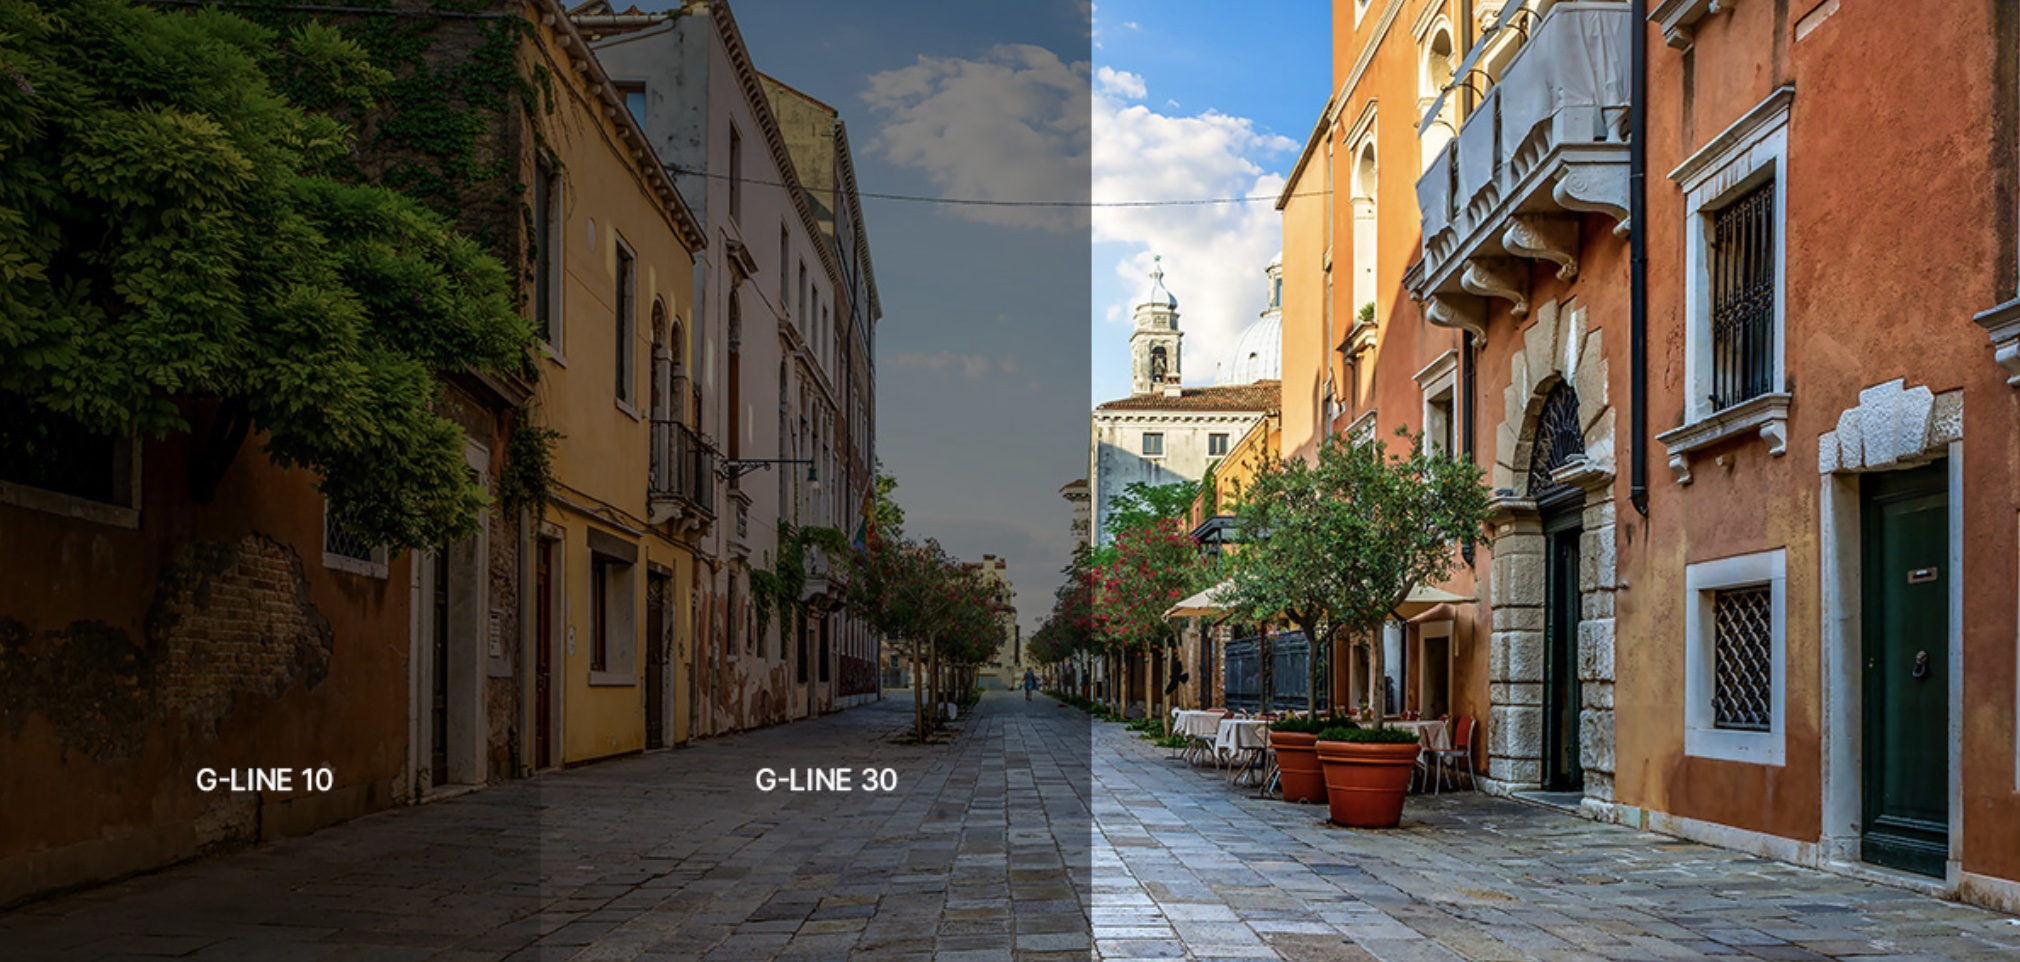
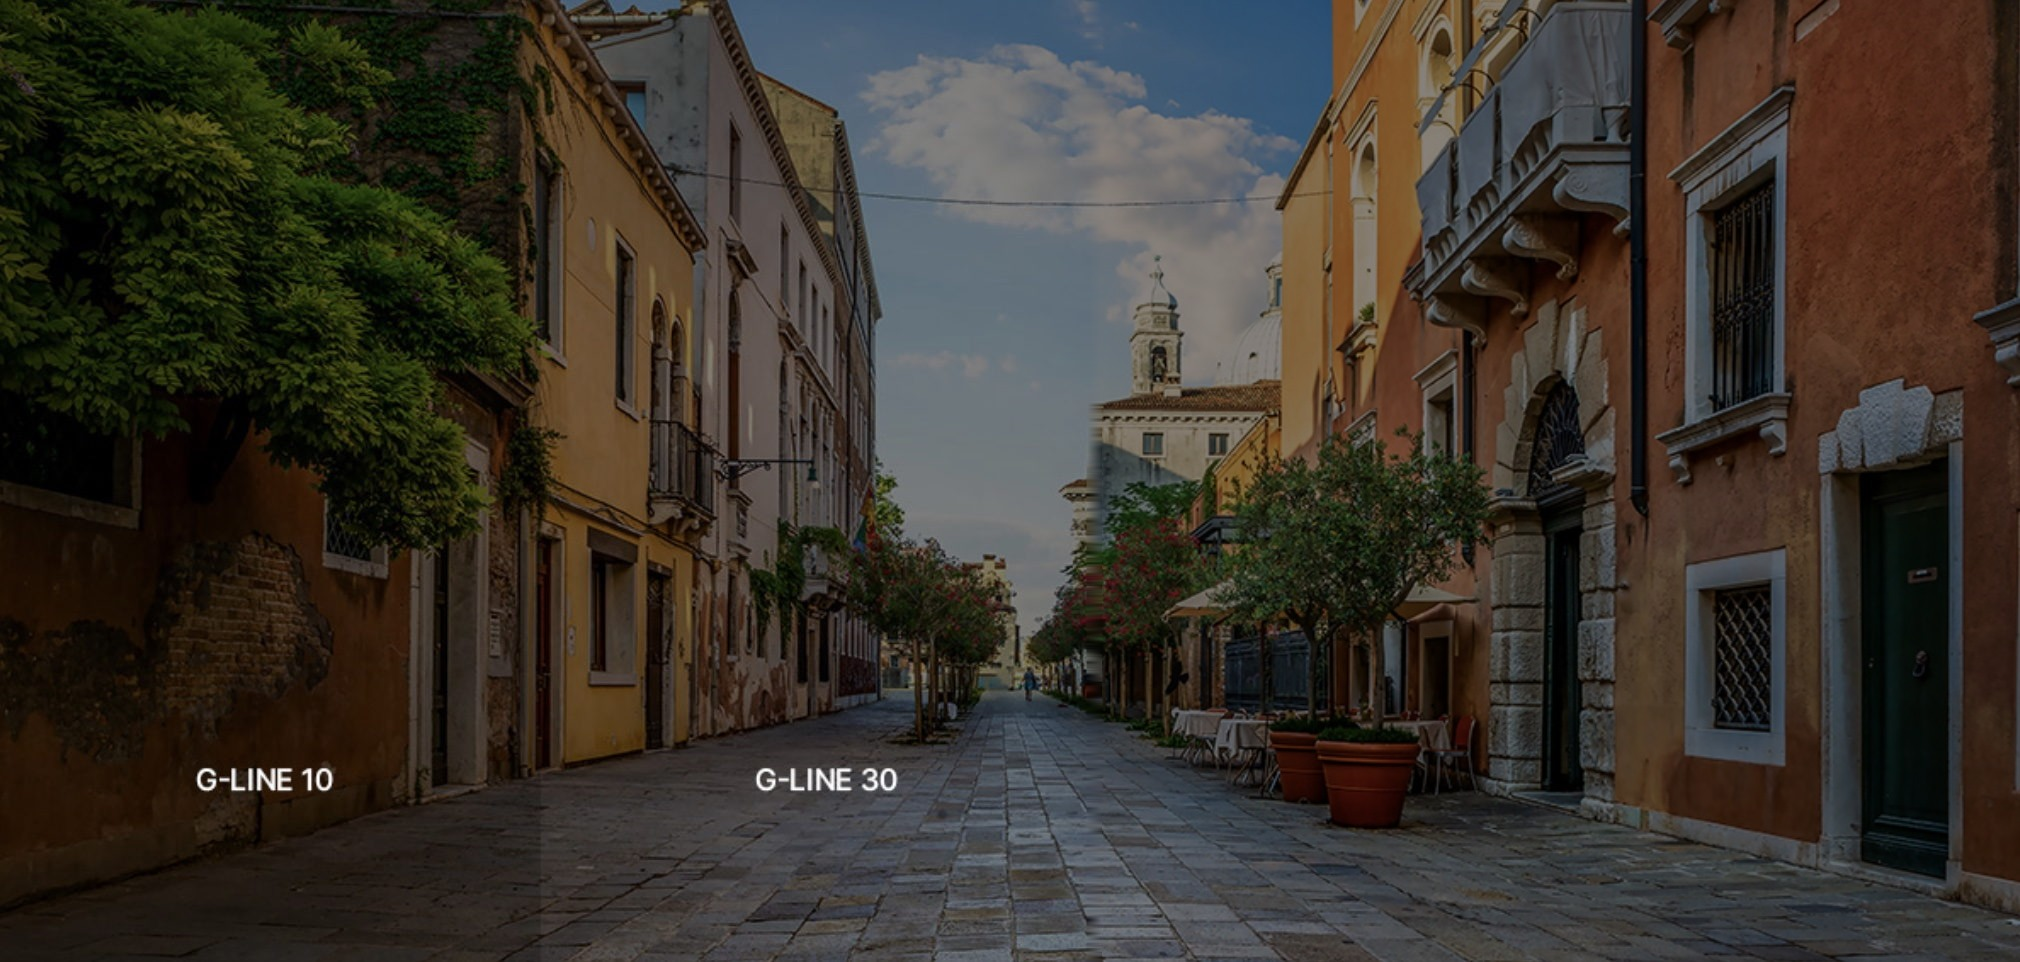
비교컷 4종 v2 — 마지막 틴트를 끝까지 연장 (Xenith·G-LINE·S-LINE·Galaxie, 사용자 요청). 틴트=하늘 행 투과율 중앙값(곱셈 모델 — 전 채널 선형 fit은 단색 하늘에서 발산·색왜곡 실측), 경계 ±6px 행별 보간 봉합(G-LINE 흰 디바이더 제거 포함), 바탕 동기, src ?v=2. S-LINE 실서버 검증

diff --git a/index.html b/index.html
@@ -3309,7 +3309,7 @@ body.pd-open { overflow: hidden; }
 
       <!-- Xenith IR -->
       <div class="product-panel has-scene" id="panel-xenith">
-        <div class="product-image"><img src="xenith-vlt-scene.jpg" alt="Xenith IR 농도별 발색 비교 — 비크 블랙 발색" width="2036" height="964" loading="lazy" decoding="async"></div>
+        <div class="product-image"><img src="xenith-vlt-scene.jpg?v=2" alt="Xenith IR 농도별 발색 비교 — 비크 블랙 발색" width="2036" height="964" loading="lazy" decoding="async"></div>
         <div>
           <span class="product-category">천장의 빛</span>
           <h3 class="product-name">Xenith IR</h3>
@@ -3403,7 +3403,7 @@ body.pd-open { overflow: hidden; }
 
       <!-- G-LINE -->
       <div class="product-panel has-scene" id="panel-gline">
-        <div class="product-image"><img src="gline-vlt-scene.jpg" alt="G-LINE 농도별 발색 비교 — 라미네이티드 블루 발색" width="2020" height="962" loading="lazy" decoding="async"></div>
+        <div class="product-image"><img src="gline-vlt-scene.jpg?v=2" alt="G-LINE 농도별 발색 비교 — 라미네이티드 블루 발색" width="2020" height="962" loading="lazy" decoding="async"></div>
         <div>
           <span class="product-category">Balance &amp; Hybrid</span>
           <h3 class="product-name">G-LINE</h3>
@@ -3434,7 +3434,7 @@ body.pd-open { overflow: hidden; }
 
       <!-- S-LINE -->
       <div class="product-panel has-scene" id="panel-sline">
-        <div class="product-image"><img src="sline-vlt-scene.jpg" alt="S-LINE 농도별 발색 비교" width="2032" height="964" loading="lazy" decoding="async"></div>
+        <div class="product-image"><img src="sline-vlt-scene.jpg?v=2" alt="S-LINE 농도별 발색 비교" width="2032" height="964" loading="lazy" decoding="async"></div>
         <div>
           <span class="product-category">Comfort &amp; Smart</span>
           <h3 class="product-name">S-LINE</h3>
@@ -3465,7 +3465,7 @@ body.pd-open { overflow: hidden; }
 
       <!-- Galaxie -->
       <div class="product-panel has-scene" id="panel-galaxie">
-        <div class="product-image"><img src="galaxie-vlt-scene.jpg" alt="Galaxie 농도별 발색 비교" width="2028" height="966" loading="lazy" decoding="async"></div>
+        <div class="product-image"><img src="galaxie-vlt-scene.jpg?v=2" alt="Galaxie 농도별 발색 비교" width="2028" height="966" loading="lazy" decoding="async"></div>
         <div>
           <span class="product-category">Intelligent &amp; Balance</span>
           <h3 class="product-name">Galaxie</h3>
@@ -4531,12 +4531,12 @@ if (prodSec) prodIO.observe(prodSec);
   const SCN = {
     'lx-vlt-scene.jpg':       { base: 'lx-vlt-scene-base.jpg?v=3', w: 2036, edges: [0, 303, 610, 918, 1226, 2036] },
     'vogue-vlt-scene-2.jpg':  { base: 'vogue-vlt-scene-2-base.jpg', w: 2040, edges: [0, 360, 729, 1099, 1468, 2040] },
-    'xenith-vlt-scene.jpg':   { base: 'xenith-vlt-scene-base.jpg', w: 2036, edges: [0, 608, 1221, 2036] },
+    'xenith-vlt-scene.jpg?v=2':   { base: 'xenith-vlt-scene-base.jpg?v=2', w: 2036, edges: [0, 608, 2036] },
     'quantum-vlt-scene-4.jpg':{ base: 'quantum-vlt-scene-4-base.jpg', w: 2030, edges: [0, 239, 504, 769, 1031, 1295, 1560, 2030] },
     'titanium-vlt-scene.jpg?v=2': { base: 'titanium-vlt-scene-base.jpg?v=2', w: 2038, edges: [0, 453, 913, 2038] }, /* 26 틴트를 끝까지 연장한 v2 컷 (2026-08-13) */
-    'gline-vlt-scene.jpg':    { base: 'gline-vlt-scene-base.jpg', w: 2020, edges: [0, 540, 1094, 2020] },
-    'sline-vlt-scene.jpg':    { base: 'sline-vlt-scene-base.jpg', w: 2032, edges: [0, 546, 1099, 2032] },
-    'galaxie-vlt-scene.jpg':  { base: 'galaxie-vlt-scene-base.jpg', w: 2028, edges: [0, 449, 911, 1373, 2028] },
+    'gline-vlt-scene.jpg?v=2':    { base: 'gline-vlt-scene-base.jpg?v=2', w: 2020, edges: [0, 540, 2020] },
+    'sline-vlt-scene.jpg?v=2':    { base: 'sline-vlt-scene-base.jpg?v=2', w: 2032, edges: [0, 546, 2032] },
+    'galaxie-vlt-scene.jpg?v=2':  { base: 'galaxie-vlt-scene-base.jpg?v=2', w: 2028, edges: [0, 449, 911, 2028] },
   };
   const wraps = [];
   document.querySelectorAll('.product-panel.has-scene .product-image').forEach(w => {
